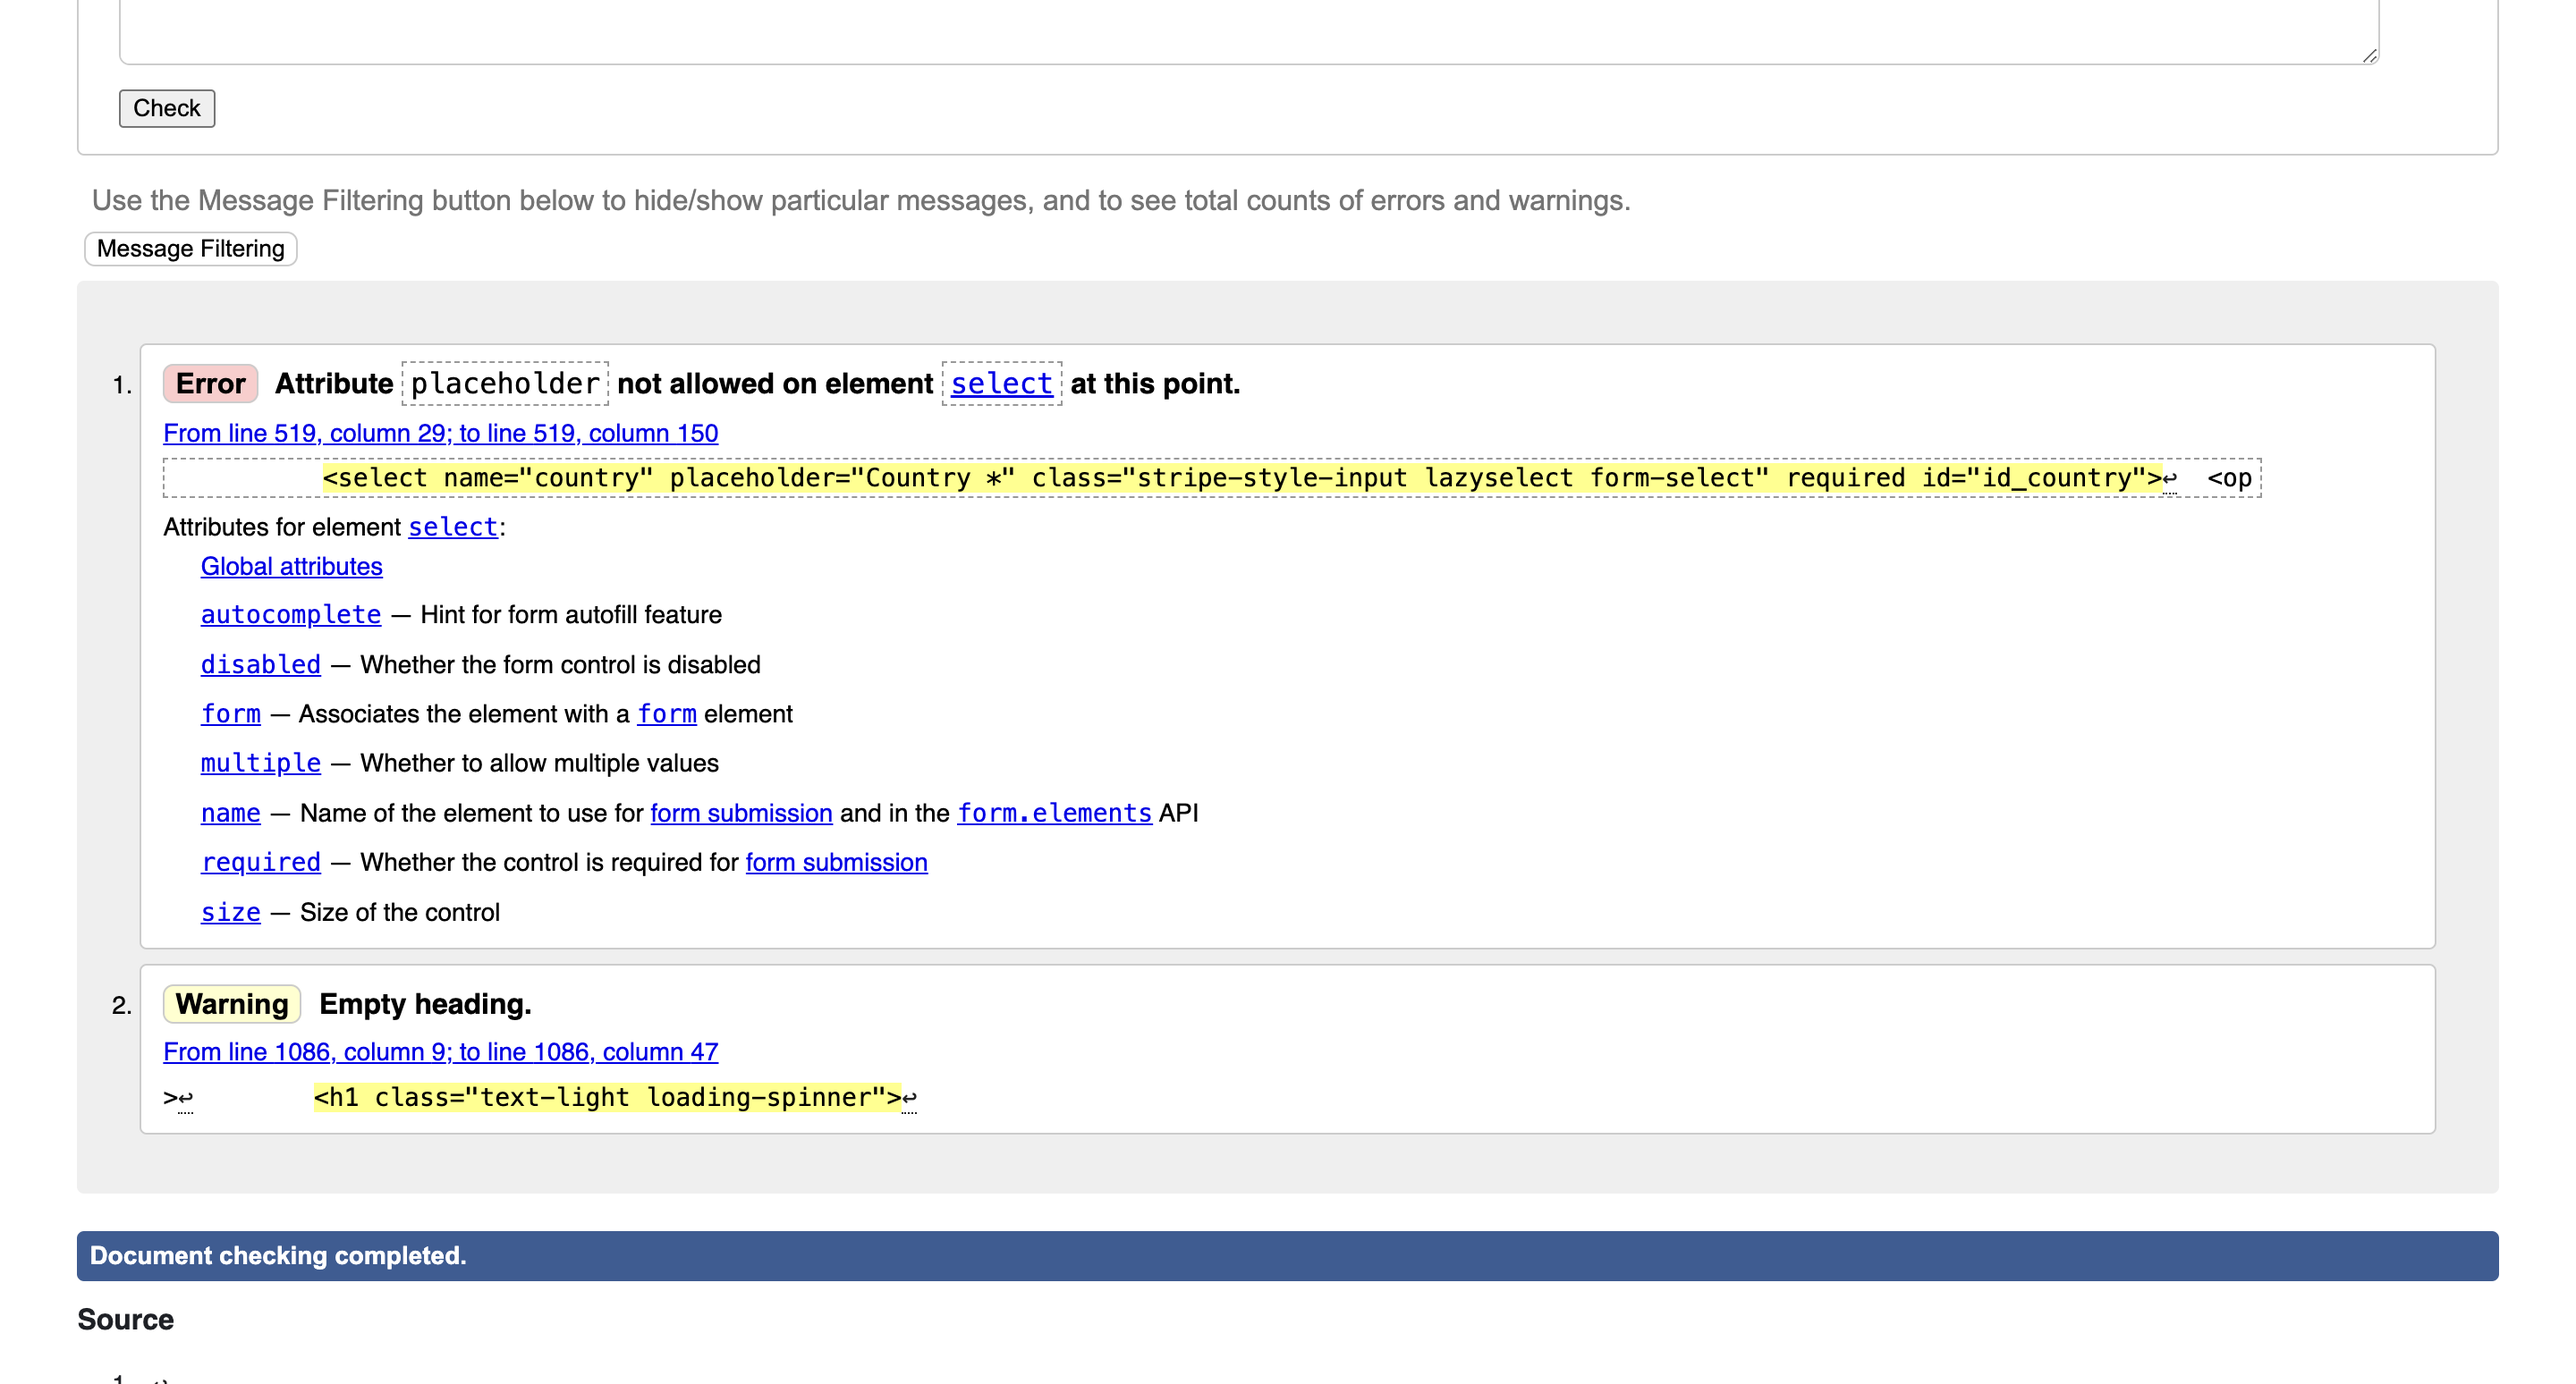
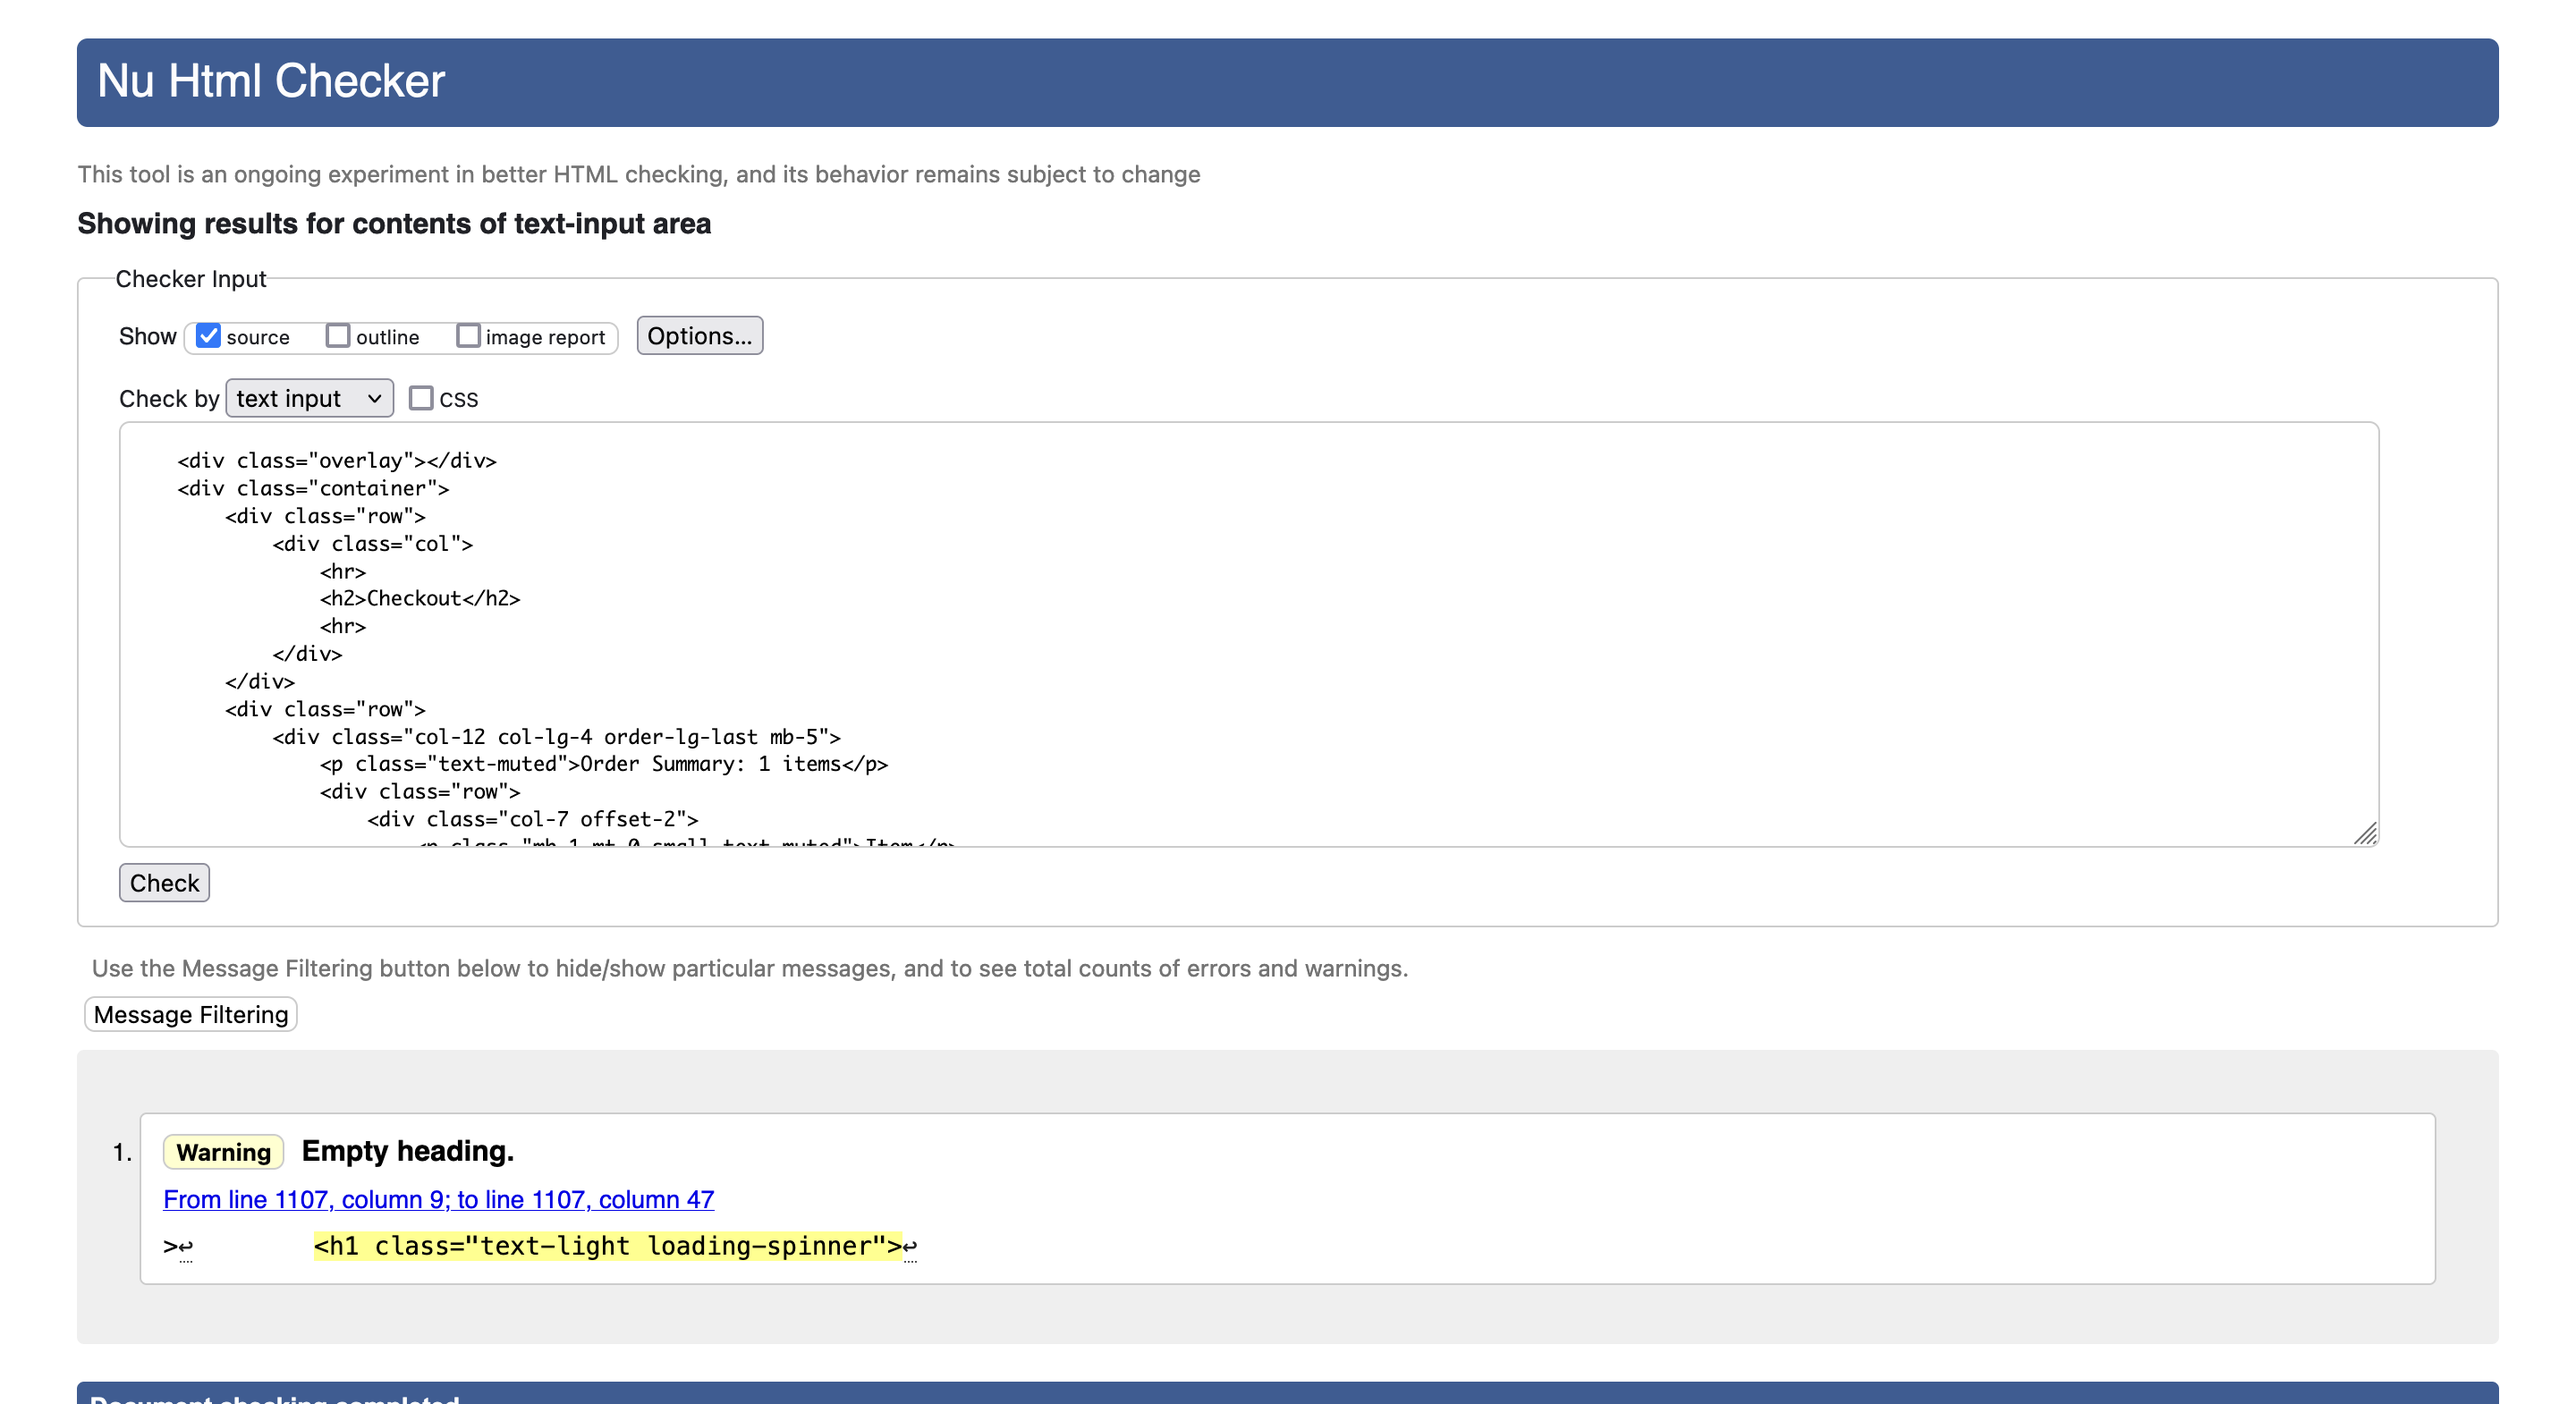
Docs: Update documentation

Changed region(s): [[0.0312, 0.0, 0.9688, 1.0]]

diff --git a/README.md b/README.md
@@ -467,8 +467,8 @@ An error returned while validating product_info.html. On closer inspection this 
 <details>
 <summary>Checkout</summary>
 <br>
-An error was reported on the page source for /checkout.html relating to the use of placeholder text for the 'Country' field, as well as a warning for an Empty h1 tag.
-It was deemed appropriate to keep these as is, as the placeholder text provides important information to the user relating to a mandatory field, and the empty h1 tag is for a decorative spinner appearing on the payment processing overlay.
+An warning was reported on the page source for /checkout.html for an Empty h1 tag.
+It was deemed appropriate to keep this as is as the empty h1 tag is for a decorative spinner appearing on the payment processing overlay.
 <img src='documentation/validation-screenshots/checkout-validation.png'>
 </details>
 
